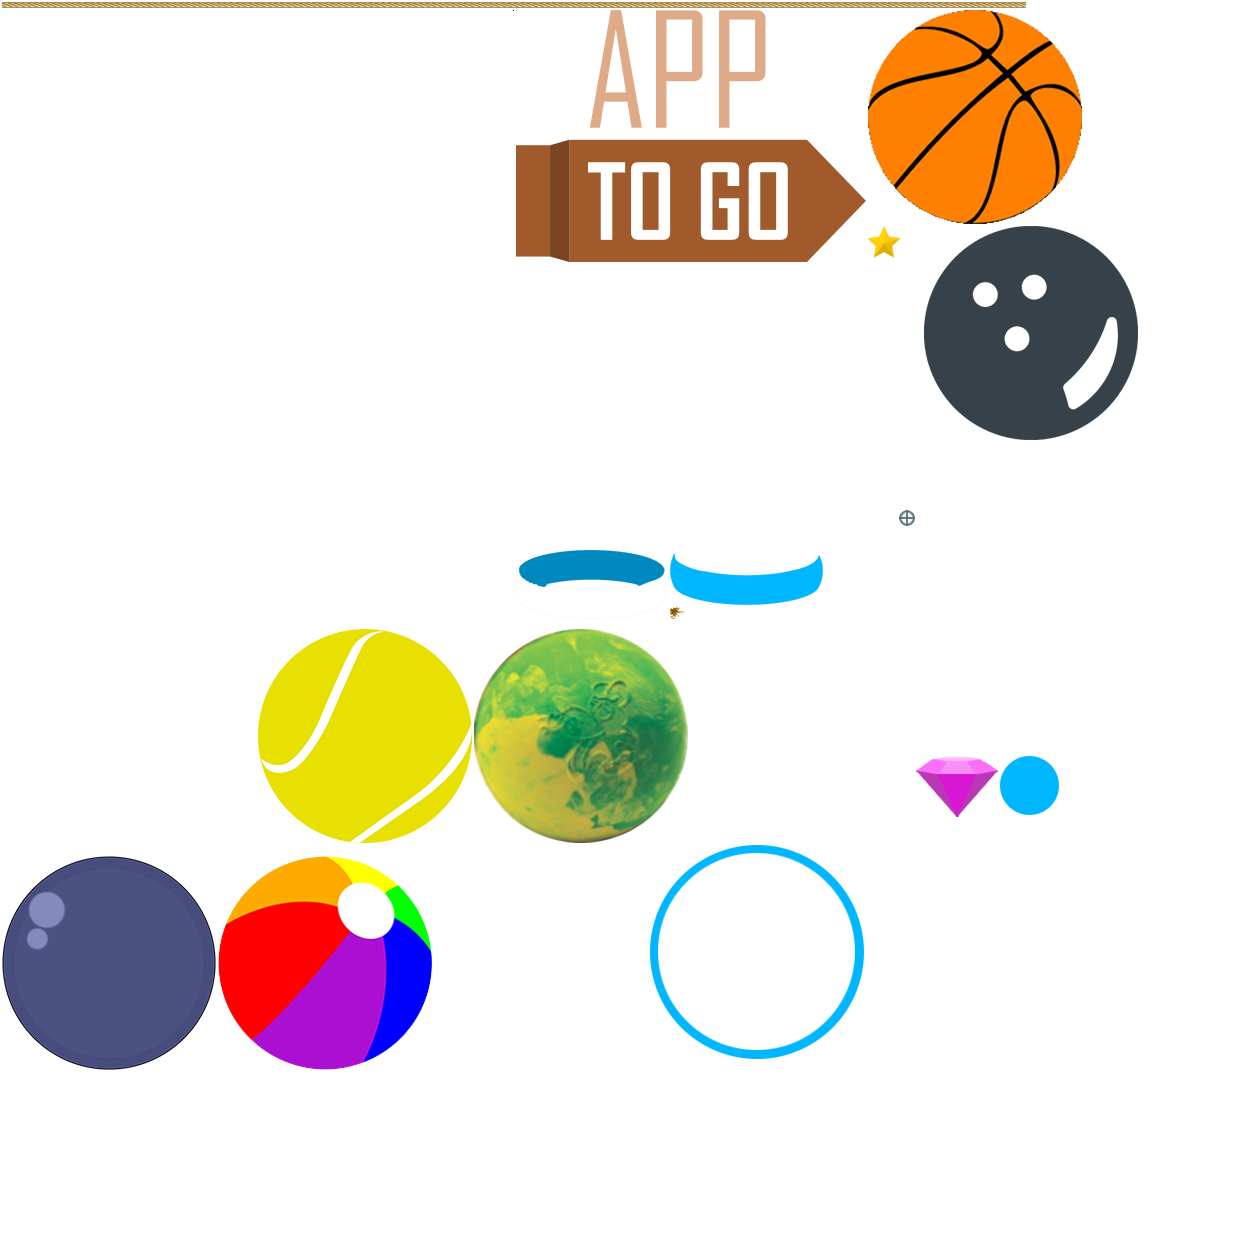
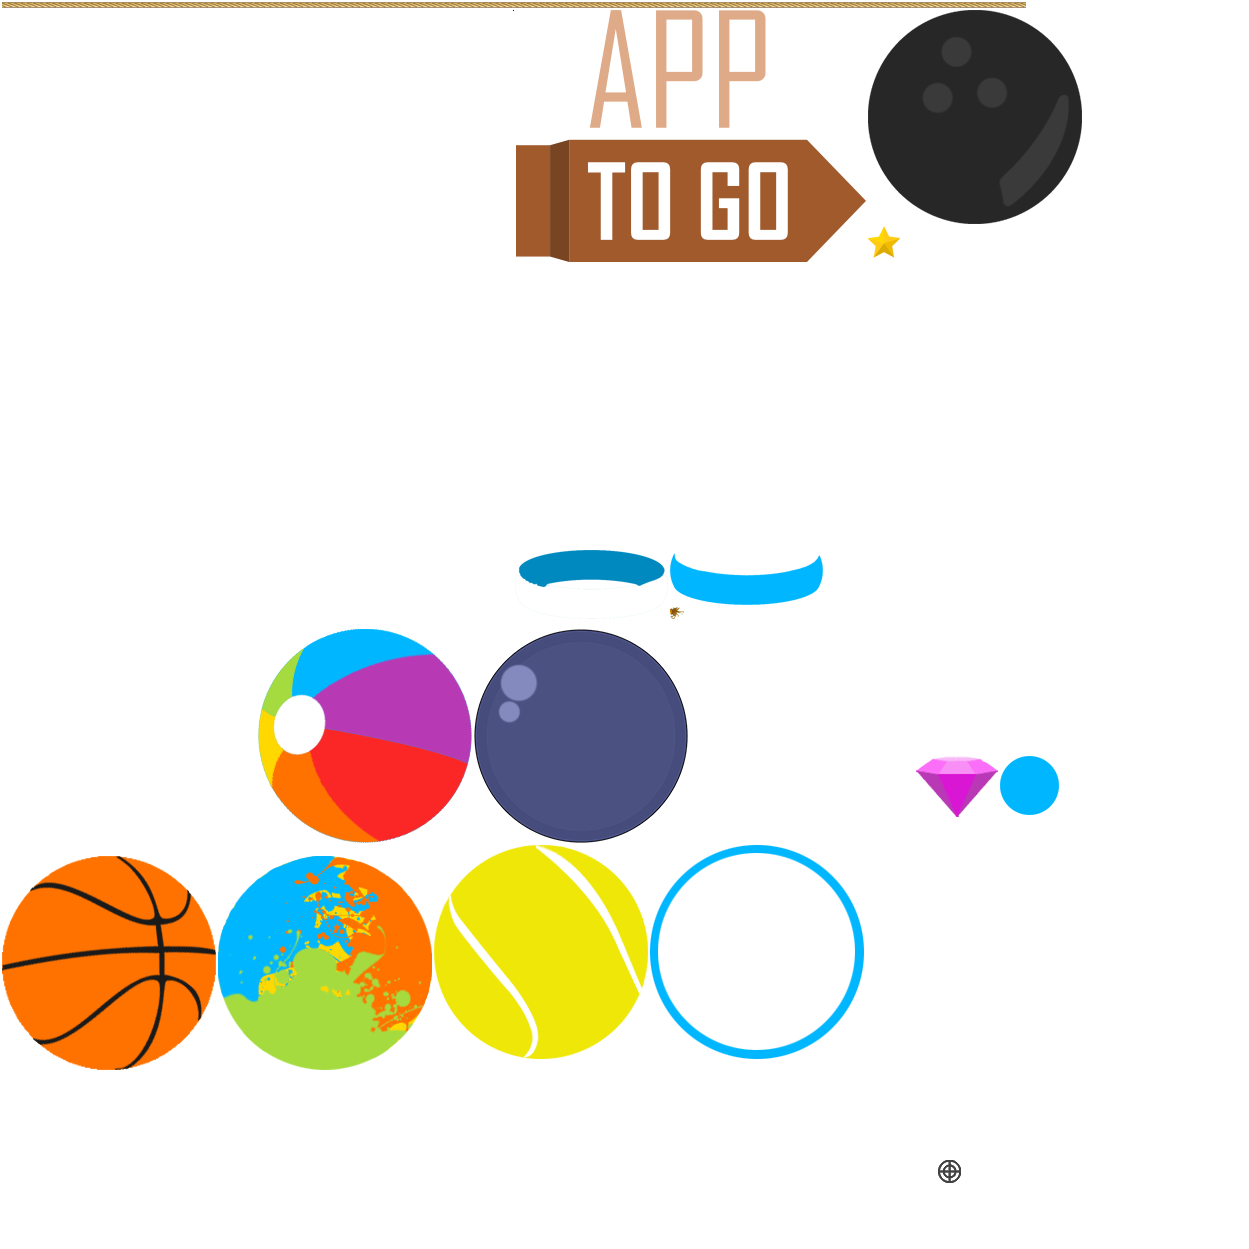
balls impl in progress

diff --git a/core/src/com/apptogo/roperace/screen/GameScreen.java b/core/src/com/apptogo/roperace/screen/GameScreen.java
@@ -56,6 +56,8 @@ public class GameScreen extends BasicScreen {
 	private StartGameGroup startGameGroup;
 	private GravityPlugin gravityPlugin;
 	
+	private float ballDefaultGraphicRadius = 107;
+	
 	public GameScreen(int levelNo, int worldNo) {
 		super();
 		this.levelNo = levelNo;
@@ -128,9 +130,9 @@ public class GameScreen extends BasicScreen {
 				.addFixture("player").circle(ball.size).density(ball.density).friction(ball.friction).restitution(ball.restitution)
 				.create());
 		player.getBody().setLinearDamping(ball.damping);
-		player.setStaticImage("ball"+activeBallNumber);
-		player.getCurrentAnimation().scaleFrames(1/UnitConverter.PPM * 0.3f);
-
+		player.setStaticImage(BallData.valueOf(activeBallNumber).name().toLowerCase());
+		player.getCurrentAnimation().scaleFrames(ball.size/ballDefaultGraphicRadius);
+		player.setOrigin(ball.size/ballDefaultGraphicRadius/2, ball.size/ballDefaultGraphicRadius/2);
 		player.modifyCustomOffsets(0f, 0f);
 		frontStage.addActor(player);
 		

diff --git a/core/src/com/apptogo/roperace/enums/BallData.java b/core/src/com/apptogo/roperace/enums/BallData.java
@@ -6,12 +6,12 @@ import java.util.Map;
 
 public enum BallData {
 	
-	NORMAL(1, 0.5f, 2.5f, 0.5f, 0.5f, -0.02f),
-	TENNIS(2, 0.5f, 2.5f, 0.5f, 0.5f, -0.02f),
-	BASKET(3, 0.5f, 2.5f, 0.5f, 0.5f, -0.02f),
-	BOWLING(4, 0.5f, 2.5f, 0.5f, 0.5f, -0.02f),
-	RUBBER(5, 0.5f, 2.5f, 0.5f, 0.5f, -0.02f),
-	BEACH(6, 0.5f, 2.5f, 0.5f, 0.5f, -0.02f);
+	NORMAL(1, 0.5f, 1.5f, 0.5f, 0.5f, -0.02f),
+	TENNIS(2, 0.25f, 7f, 0.6f, 0.6f, -0.02f),
+	BASKET(3, 0.5f, 5f, 0.5f, 0.5f, -0.02f),
+	BOWLING(4, 0.5f, 5f, 0.5f, 0.5f, -0.02f),
+	RUBBER(5, 0.2f, 5f, 0.5f, 0.8f, -0.02f),
+	BEACH(6, 0.55f, 5f, 0.5f, 0.5f, -0.02f);
 	
     private static Map<Integer, BallData> map = new HashMap<Integer, BallData>();
 

diff --git a/core/src/com/apptogo/roperace/save/GameData.java b/core/src/com/apptogo/roperace/save/GameData.java
@@ -3,6 +3,7 @@ package com.apptogo.roperace.save;
 import java.util.ArrayList;
 import java.util.List;
 
+import com.apptogo.roperace.enums.BallData;
 import com.apptogo.roperace.enums.ColorSet;
 
 public class GameData {
@@ -11,8 +12,8 @@ public class GameData {
 		//first always unlocked
 		unlockedLevels.add(new LevelNode(1, 1, ColorSet.GRAY));
 		unlockedWorlds.add(1);
-		unlockedBalls.add(1);
-		activeBall = 1;
+		unlockedBalls.add(BallData.NORMAL.number);
+		activeBall = BallData.TENNIS.number;
 	}
 
 	protected static final String NAME = "GAME_DATA";
